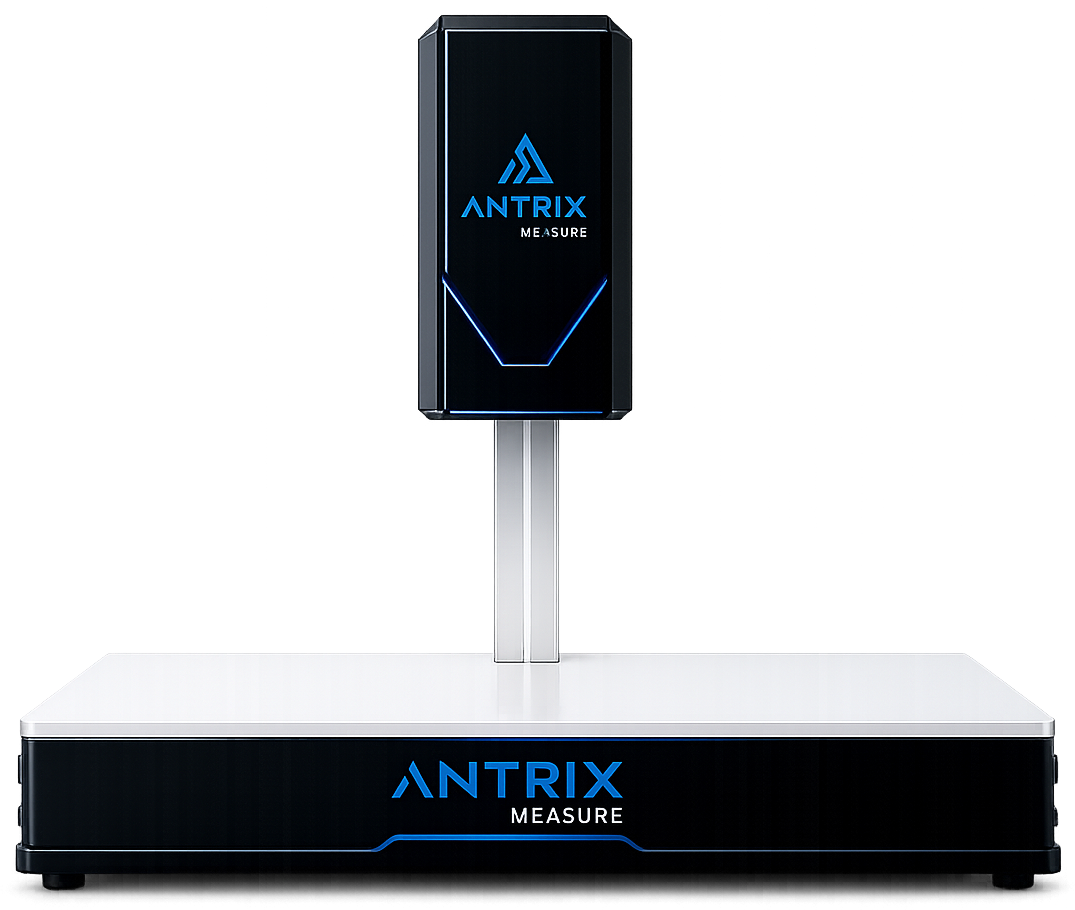
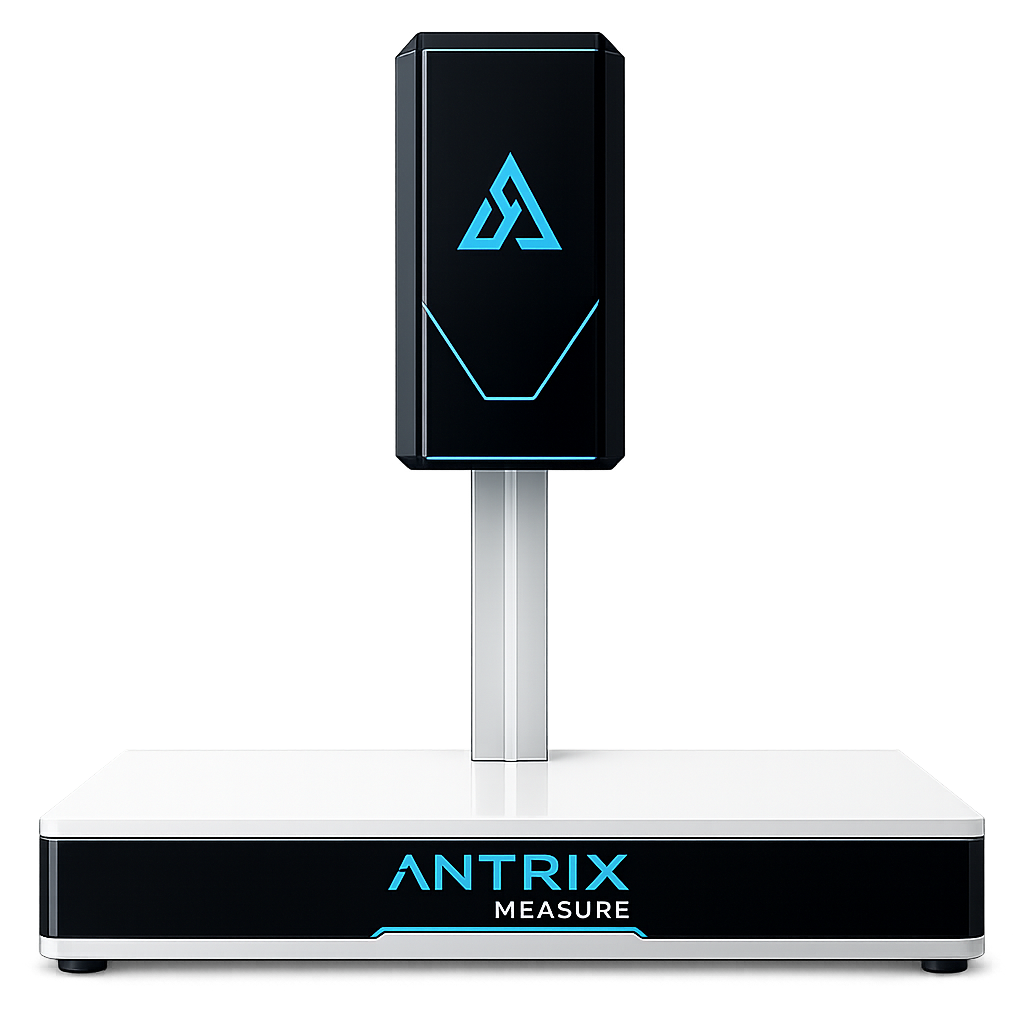
Update product image, contact fields, footer, and copy accuracy
- Swap in updated Antrix Measure product photo
- Add required email and phone fields to the contact form (needed to
  actually reply to inquiries), wired into Web3Forms submission
- Enlarge footer logo and add a Founder (Dhruv Jasani) contact section
- Fix bin sorting copy: it's LED-guided placement by an operator, not
  a fully automated mechanism — corrected across product page and
  home product spec list

Changed region(s): [[0.0, 0.0, 1.0, 1.0], [0.8438, 0.7077, 0.9062, 0.7385]]

diff --git a/src/components/Contact.tsx b/src/components/Contact.tsx
@@ -13,6 +13,8 @@ type Status = "idle" | "sending" | "success" | "error";
 export function Contact() {
   const [form, setForm] = useState({
     name: "",
+    email: "",
+    phone: "",
     company: "",
     industry: "",
     need: "Antrix Measure Demo",
@@ -30,6 +32,9 @@ export function Contact() {
       payload.append("subject", `Demo Request — ${form.need}`);
       payload.append("from_name", "Antrix Website");
       payload.append("name", form.name);
+      payload.append("email", form.email);
+      payload.append("replyto", form.email);
+      payload.append("phone", form.phone);
       payload.append("company", form.company);
       payload.append("industry", form.industry);
       payload.append("need", form.need);
@@ -45,6 +50,8 @@ export function Contact() {
         setStatus("success");
         setForm({
           name: "",
+          email: "",
+          phone: "",
           company: "",
           industry: "",
           need: "Antrix Measure Demo",
@@ -91,7 +98,12 @@ export function Contact() {
             </div>
             <div className="flex items-center gap-3 text-text-secondary">
               <AtSign size={18} />
-              @antrixvision
+              <a
+                href="https://antrix.solutions"
+                className="hover:text-white"
+              >
+                antrix.solutions
+              </a>
             </div>
           </div>
         </Reveal>
@@ -104,6 +116,22 @@ export function Contact() {
               className={inputClass}
               value={form.name}
               onChange={(e) => setForm({ ...form, name: e.target.value })}
+            />
+            <input
+              required
+              type="email"
+              placeholder="Email Address *"
+              className={inputClass}
+              value={form.email}
+              onChange={(e) => setForm({ ...form, email: e.target.value })}
+            />
+            <input
+              required
+              type="tel"
+              placeholder="Mobile Number *"
+              className={inputClass}
+              value={form.phone}
+              onChange={(e) => setForm({ ...form, phone: e.target.value })}
             />
             <input
               required

diff --git a/src/components/Footer.tsx b/src/components/Footer.tsx
@@ -28,8 +28,8 @@ export function Footer() {
     <footer className="relative z-10 border-t border-border bg-bg-primary py-2xl">
       <div className="max-w-content mx-auto px-md md:px-xl">
         <div className="flex items-center gap-3">
-          <Image src="/images/logo.png" alt="Antrix" width={40} height={40} className="w-9 h-9" />
-          <span className="text-[16px] font-semibold tracking-tighter">
+          <Image src="/images/logo.png" alt="Antrix" width={56} height={56} className="w-12 h-12 md:w-14 md:h-14" />
+          <span className="text-[20px] md:text-[22px] font-semibold tracking-tighter">
             ANTRIX
           </span>
         </div>
@@ -37,7 +37,7 @@ export function Footer() {
           Built for What&apos;s Next.
         </p>
 
-        <div className="mt-xl grid grid-cols-2 md:grid-cols-3 gap-lg max-w-[560px]">
+        <div className="mt-xl grid grid-cols-2 md:grid-cols-4 gap-lg max-w-[760px]">
           {columns.map((col) => (
             <div key={col.title}>
               <h4 className="text-[13px] font-semibold text-white mb-sm">
@@ -57,6 +57,19 @@ export function Footer() {
               </ul>
             </div>
           ))}
+
+          <div>
+            <h4 className="text-[13px] font-semibold text-white mb-sm">
+              Founder
+            </h4>
+            <p className="text-[14px] text-text-secondary">Dhruv Jasani</p>
+            <a
+              href="mailto:jasanidhruv256@gmail.com"
+              className="block mt-2 text-[14px] text-text-secondary hover:text-white transition-colors"
+            >
+              jasanidhruv256@gmail.com
+            </a>
+          </div>
         </div>
 
         <div className="mt-2xl pt-lg border-t border-border text-[13px] text-text-muted">

diff --git a/src/app/antrix-measure/page.tsx b/src/app/antrix-measure/page.tsx
@@ -24,7 +24,7 @@ const specs = [
   { label: "Supported Cut Types", value: "9 (Round + 8 Fancy Cuts)" },
   { label: "Measurement Mode", value: "Single Stone + Multi-Stone Batch" },
   { label: "Calibration", value: "High-Precision Optical System" },
-  { label: "Sorting Output", value: "Automatic LED-Guided Bin Sorting" },
+  { label: "Sorting Output", value: "LED-Guided Bin Placement" },
   { label: "Shape Classification", value: "Automatic (9 Cut Types)" },
   { label: "Interface", value: "Desktop Application" },
 ];
@@ -39,8 +39,8 @@ const features = [
     body: "Round, Oval, Pear, Marquise, Princess, Emerald, Cushion, Heart, Radiant — Antrix Measure classifies and measures all 9 cut types automatically. No manual selection required.",
   },
   {
-    title: "Automatic Bin Sorting",
-    body: "LED-guided bin sorting means measured stones are automatically directed to the correct bin. Zero manual sorting. Zero errors.",
+    title: "LED-Guided Bin Sorting",
+    body: "Once a stone is measured, an LED lights up on the correct bin — the operator simply places it there. No manual lookup, no guesswork, no sorting errors.",
   },
   {
     title: "Precision Optical Calibration",

diff --git a/src/components/MeasureHero.tsx b/src/components/MeasureHero.tsx
@@ -58,10 +58,10 @@ export function MeasureHero() {
           <Image
             src="/images/measure-product.png"
             alt="Antrix Measure device"
-            width={1075}
-            height={910}
+            width={1024}
+            height={1024}
             priority
-            className="w-full h-auto max-w-[560px] lg:max-w-[760px]"
+            className="w-full h-auto max-w-[560px] lg:max-w-[680px]"
           />
         </div>
       </div>

diff --git a/src/components/Products.tsx b/src/components/Products.tsx
@@ -7,7 +7,7 @@ const specs = [
   "±0.02mm Measurement Accuracy",
   "9 Cut Types — Round + 8 Fancy Cuts",
   "Single & Multi-Stone Measurement",
-  "Automatic LED-Guided Bin Sorting",
+  "LED-Guided Bin Placement",
   "Automatic Shape Classification",
   "High-Precision Optical Calibration",
   "Desktop Application Interface",
